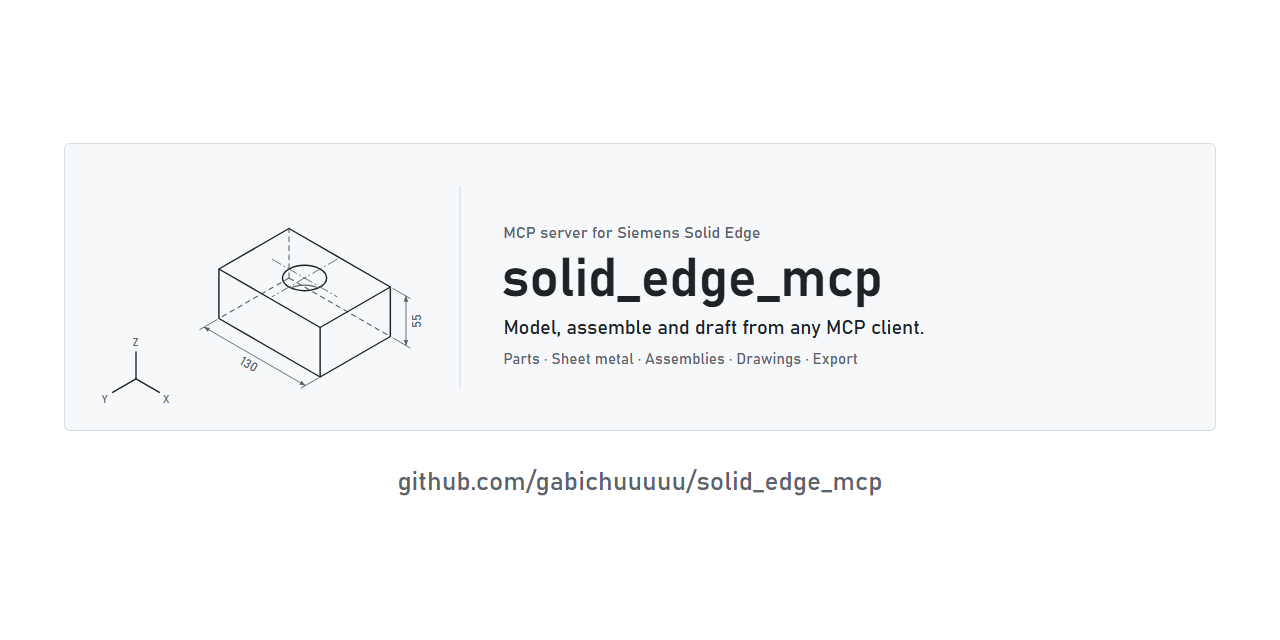
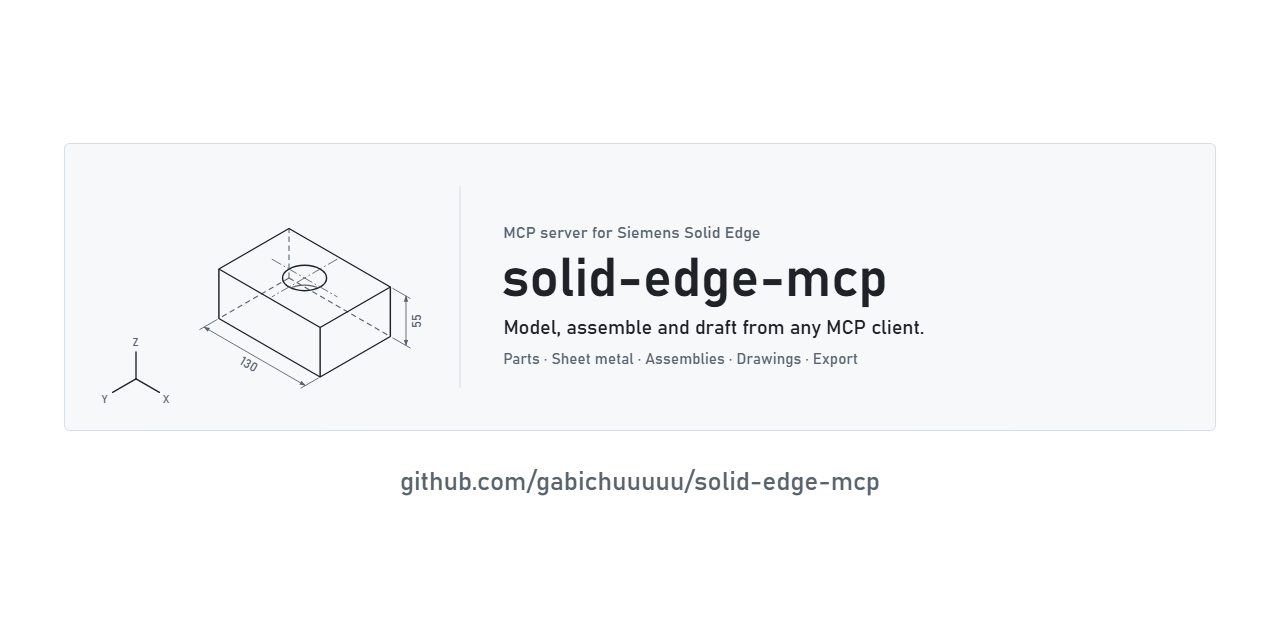
chore: rename the project to solid-edge-mcp
The repository is now github.com/gabichuuuuu/solid-edge-mcp (Google
recommends hyphens to separate words in URLs); GitHub redirects the old
URL. The banners, the social preview, the README (banner text, clone
command and structure tree), SECURITY.md, the example policy and the
Product and RepositoryUrl properties use the new name.

Changed region(s): [[0.375, 0.4062, 0.7188, 0.5938], [0.3125, 0.7188, 0.6875, 0.7812], [0.4062, 0.3438, 0.5938, 0.375]]

diff --git a/README.md b/README.md
@@ -2,7 +2,7 @@
 
 <picture>
   <source media="(prefers-color-scheme: dark)" srcset="docs/assets/banner-dark.svg">
-  <img src="docs/assets/banner.svg" alt="solid_edge_mcp: MCP server for Siemens Solid Edge. Model, assemble and draft from any MCP client" width="100%">
+  <img src="docs/assets/banner.svg" alt="solid-edge-mcp: MCP server for Siemens Solid Edge. Model, assemble and draft from any MCP client" width="100%">
 </picture>
 
 **Unofficial local [MCP](https://modelcontextprotocol.io) server to operate Siemens Solid Edge from Claude Code,
@@ -114,8 +114,8 @@ copies it when it starts `Edge.exe`.
 ### Install
 
 ```powershell
-git clone https://github.com/gabichuuuuu/solid_edge_mcp.git
-cd solid_edge_mcp
+git clone https://github.com/gabichuuuuu/solid-edge-mcp.git
+cd solid-edge-mcp
 
 # 1. Interop from the type libraries of your Solid Edge (not distributed; goes to lib\interop)
 .\scripts\generate-interop.ps1
@@ -480,7 +480,7 @@ one in `C:\Program Files\dotnet`.
 ### Repository structure
 
 ```text
-solid_edge_mcp/
+solid-edge-mcp/
 ├── src/
 │   ├── SolidEdgeMcp.Server/       MCP executable: Program.cs, Tools/ (66 tools), Infrastructure/
 │   ├── SolidEdgeMcp.SolidEdge/    COM: Com/ (StaComDispatcher, generic layer), Services/, Session/

diff --git a/CHANGELOG.md b/CHANGELOG.md
@@ -126,6 +126,9 @@ Relevant changes to this project are recorded here. The format follows
 
 ### Changed
 
+- The project is now named `solid-edge-mcp` and the repository moved to `github.com/gabichuuuuu/solid-edge-mcp`; the old
+  URL redirects. Update existing clones with
+  `git remote set-url origin https://github.com/gabichuuuuu/solid-edge-mcp.git`.
 - A folder or file option can only point into the allowed folders, the Solid Edge installation or back to the value it
   had before the server changed it (`path_not_allowed` otherwise).
 - `se_com_invoke` and `se_com_get` refuse the members that close Solid Edge 2026 or leave it unstable

diff --git a/SECURITY.md b/SECURITY.md
@@ -8,7 +8,7 @@ release or the latest commit of `main`.
 ## Reporting a vulnerability
 
 Do not open a public issue. Report it privately through GitHub:
-[Security → Report a vulnerability](https://github.com/gabichuuuuu/solid_edge_mcp/security/advisories/new).
+[Security → Report a vulnerability](https://github.com/gabichuuuuu/solid-edge-mcp/security/advisories/new).
 
 Include the version or commit, the Solid Edge version, the MCP client, the steps or the tool calls
 that reproduce it and what an attacker could do with it. The project has a single maintainer, who
